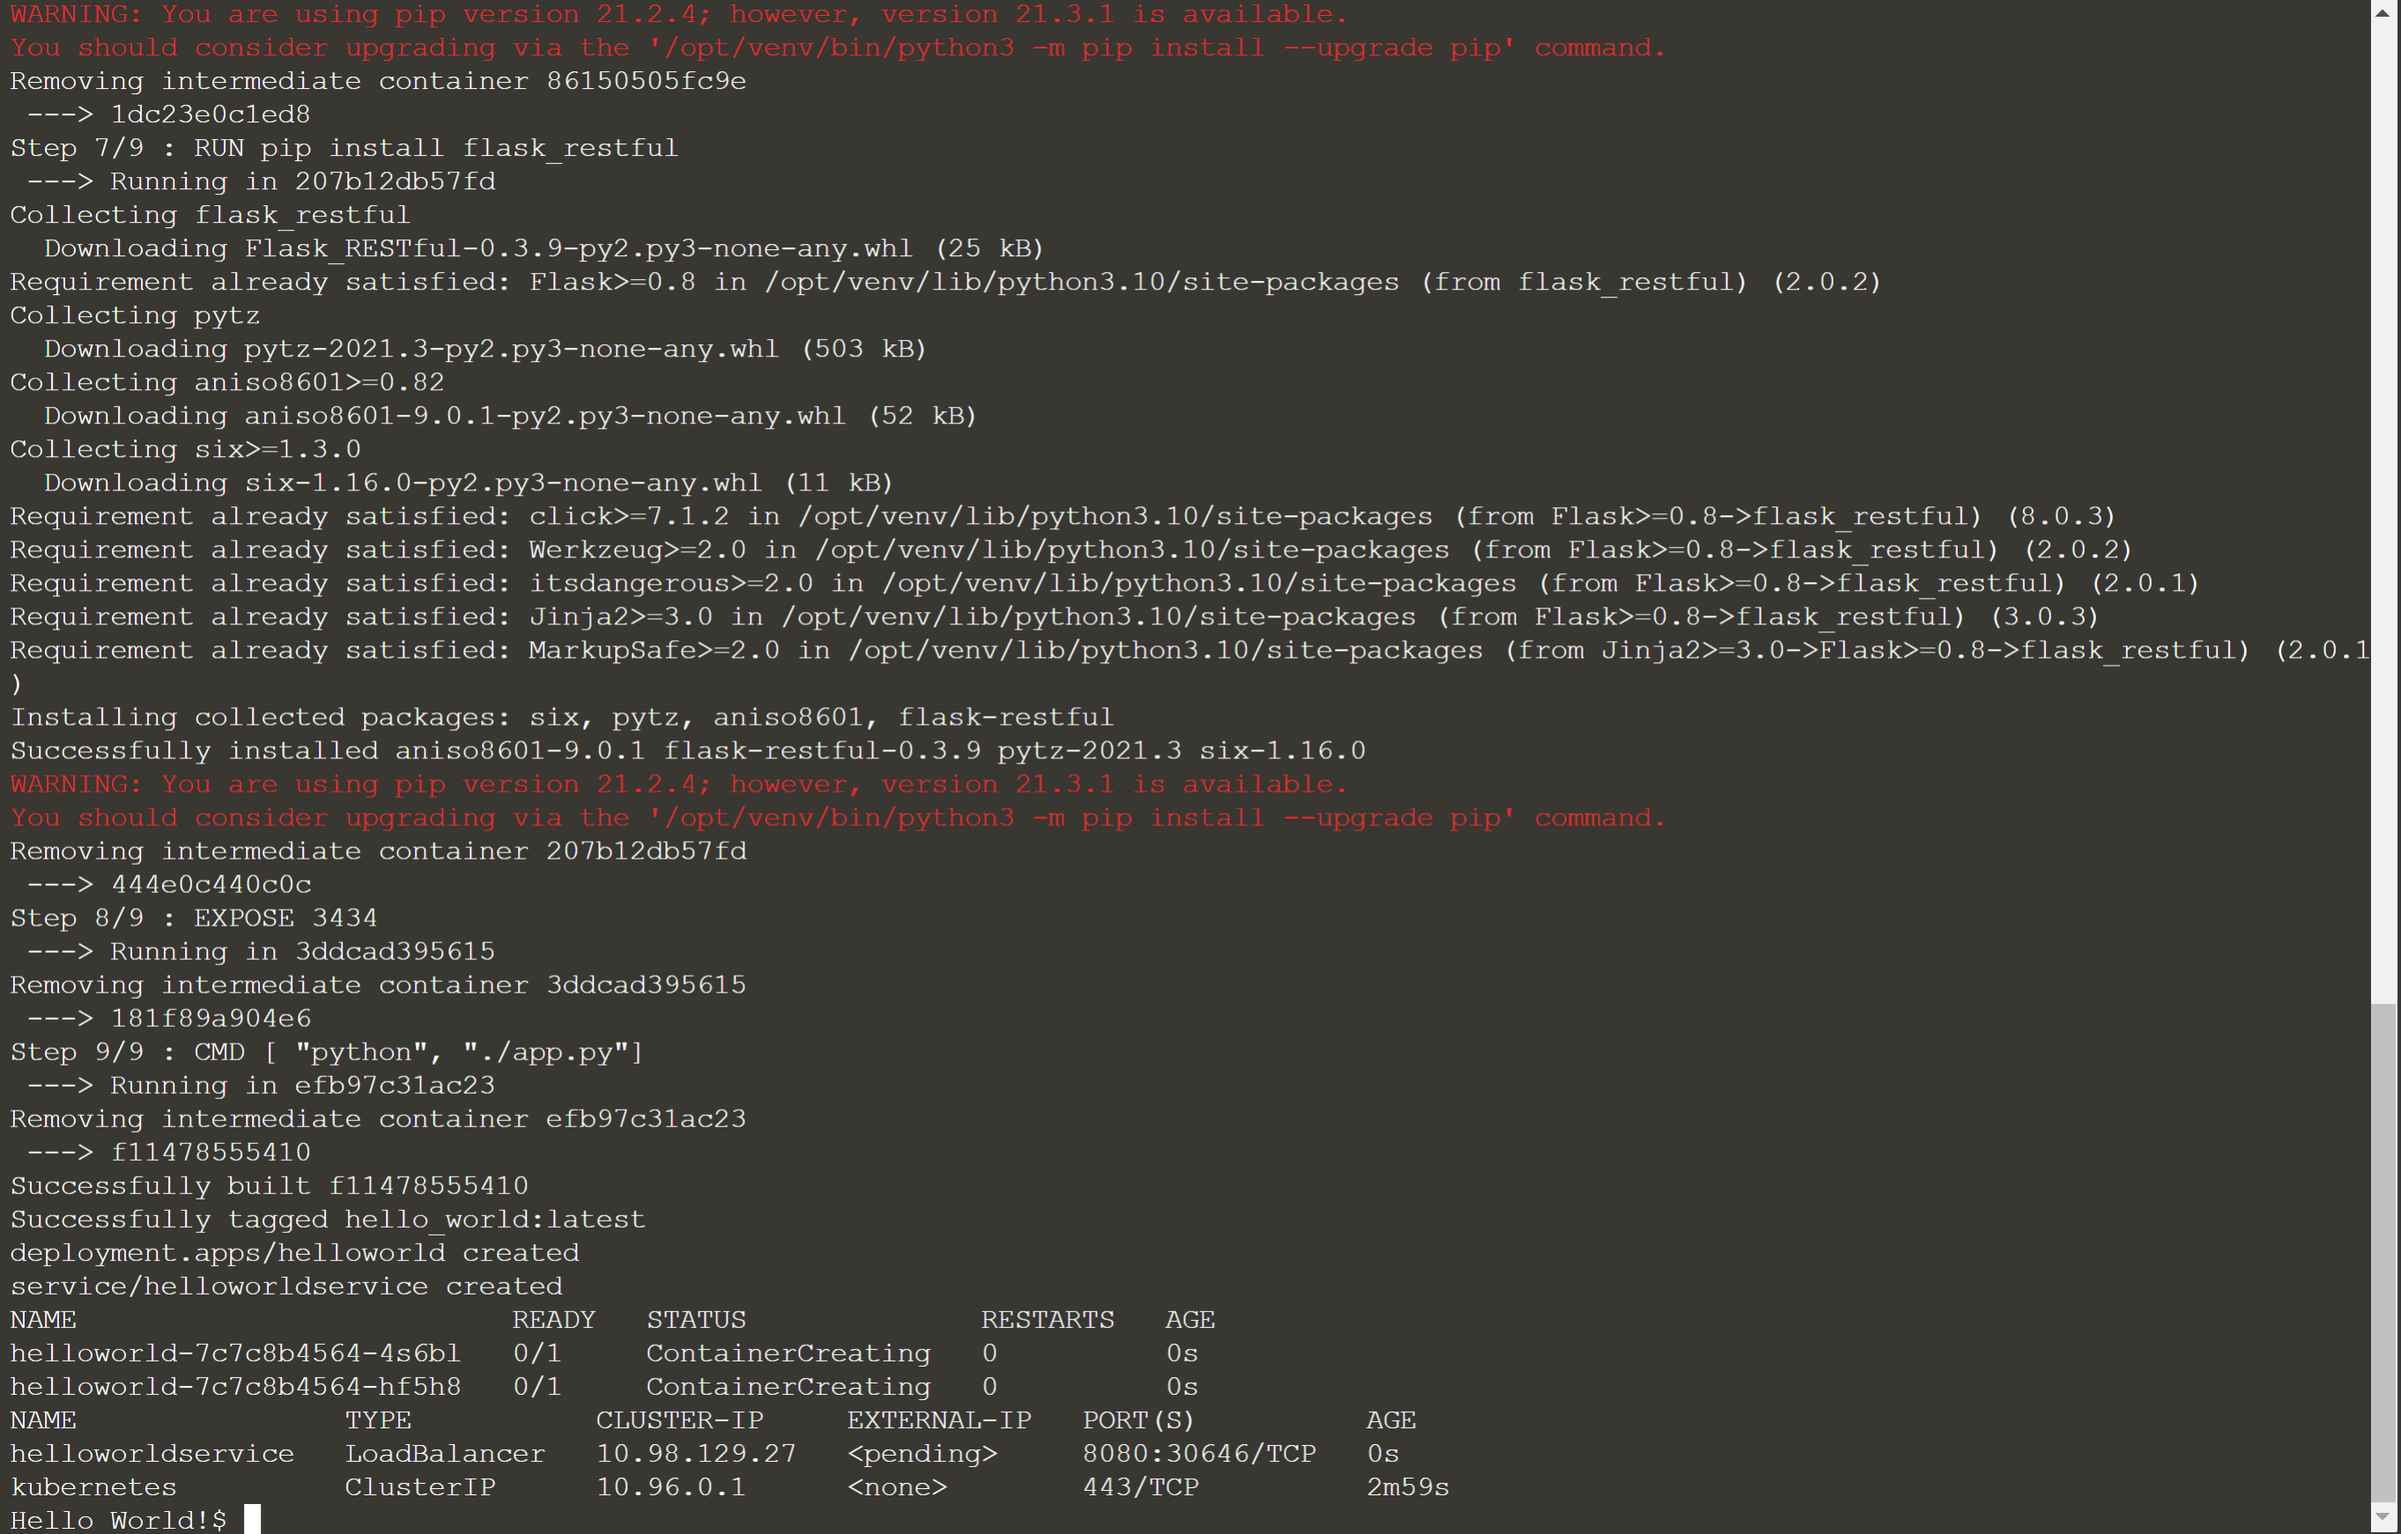
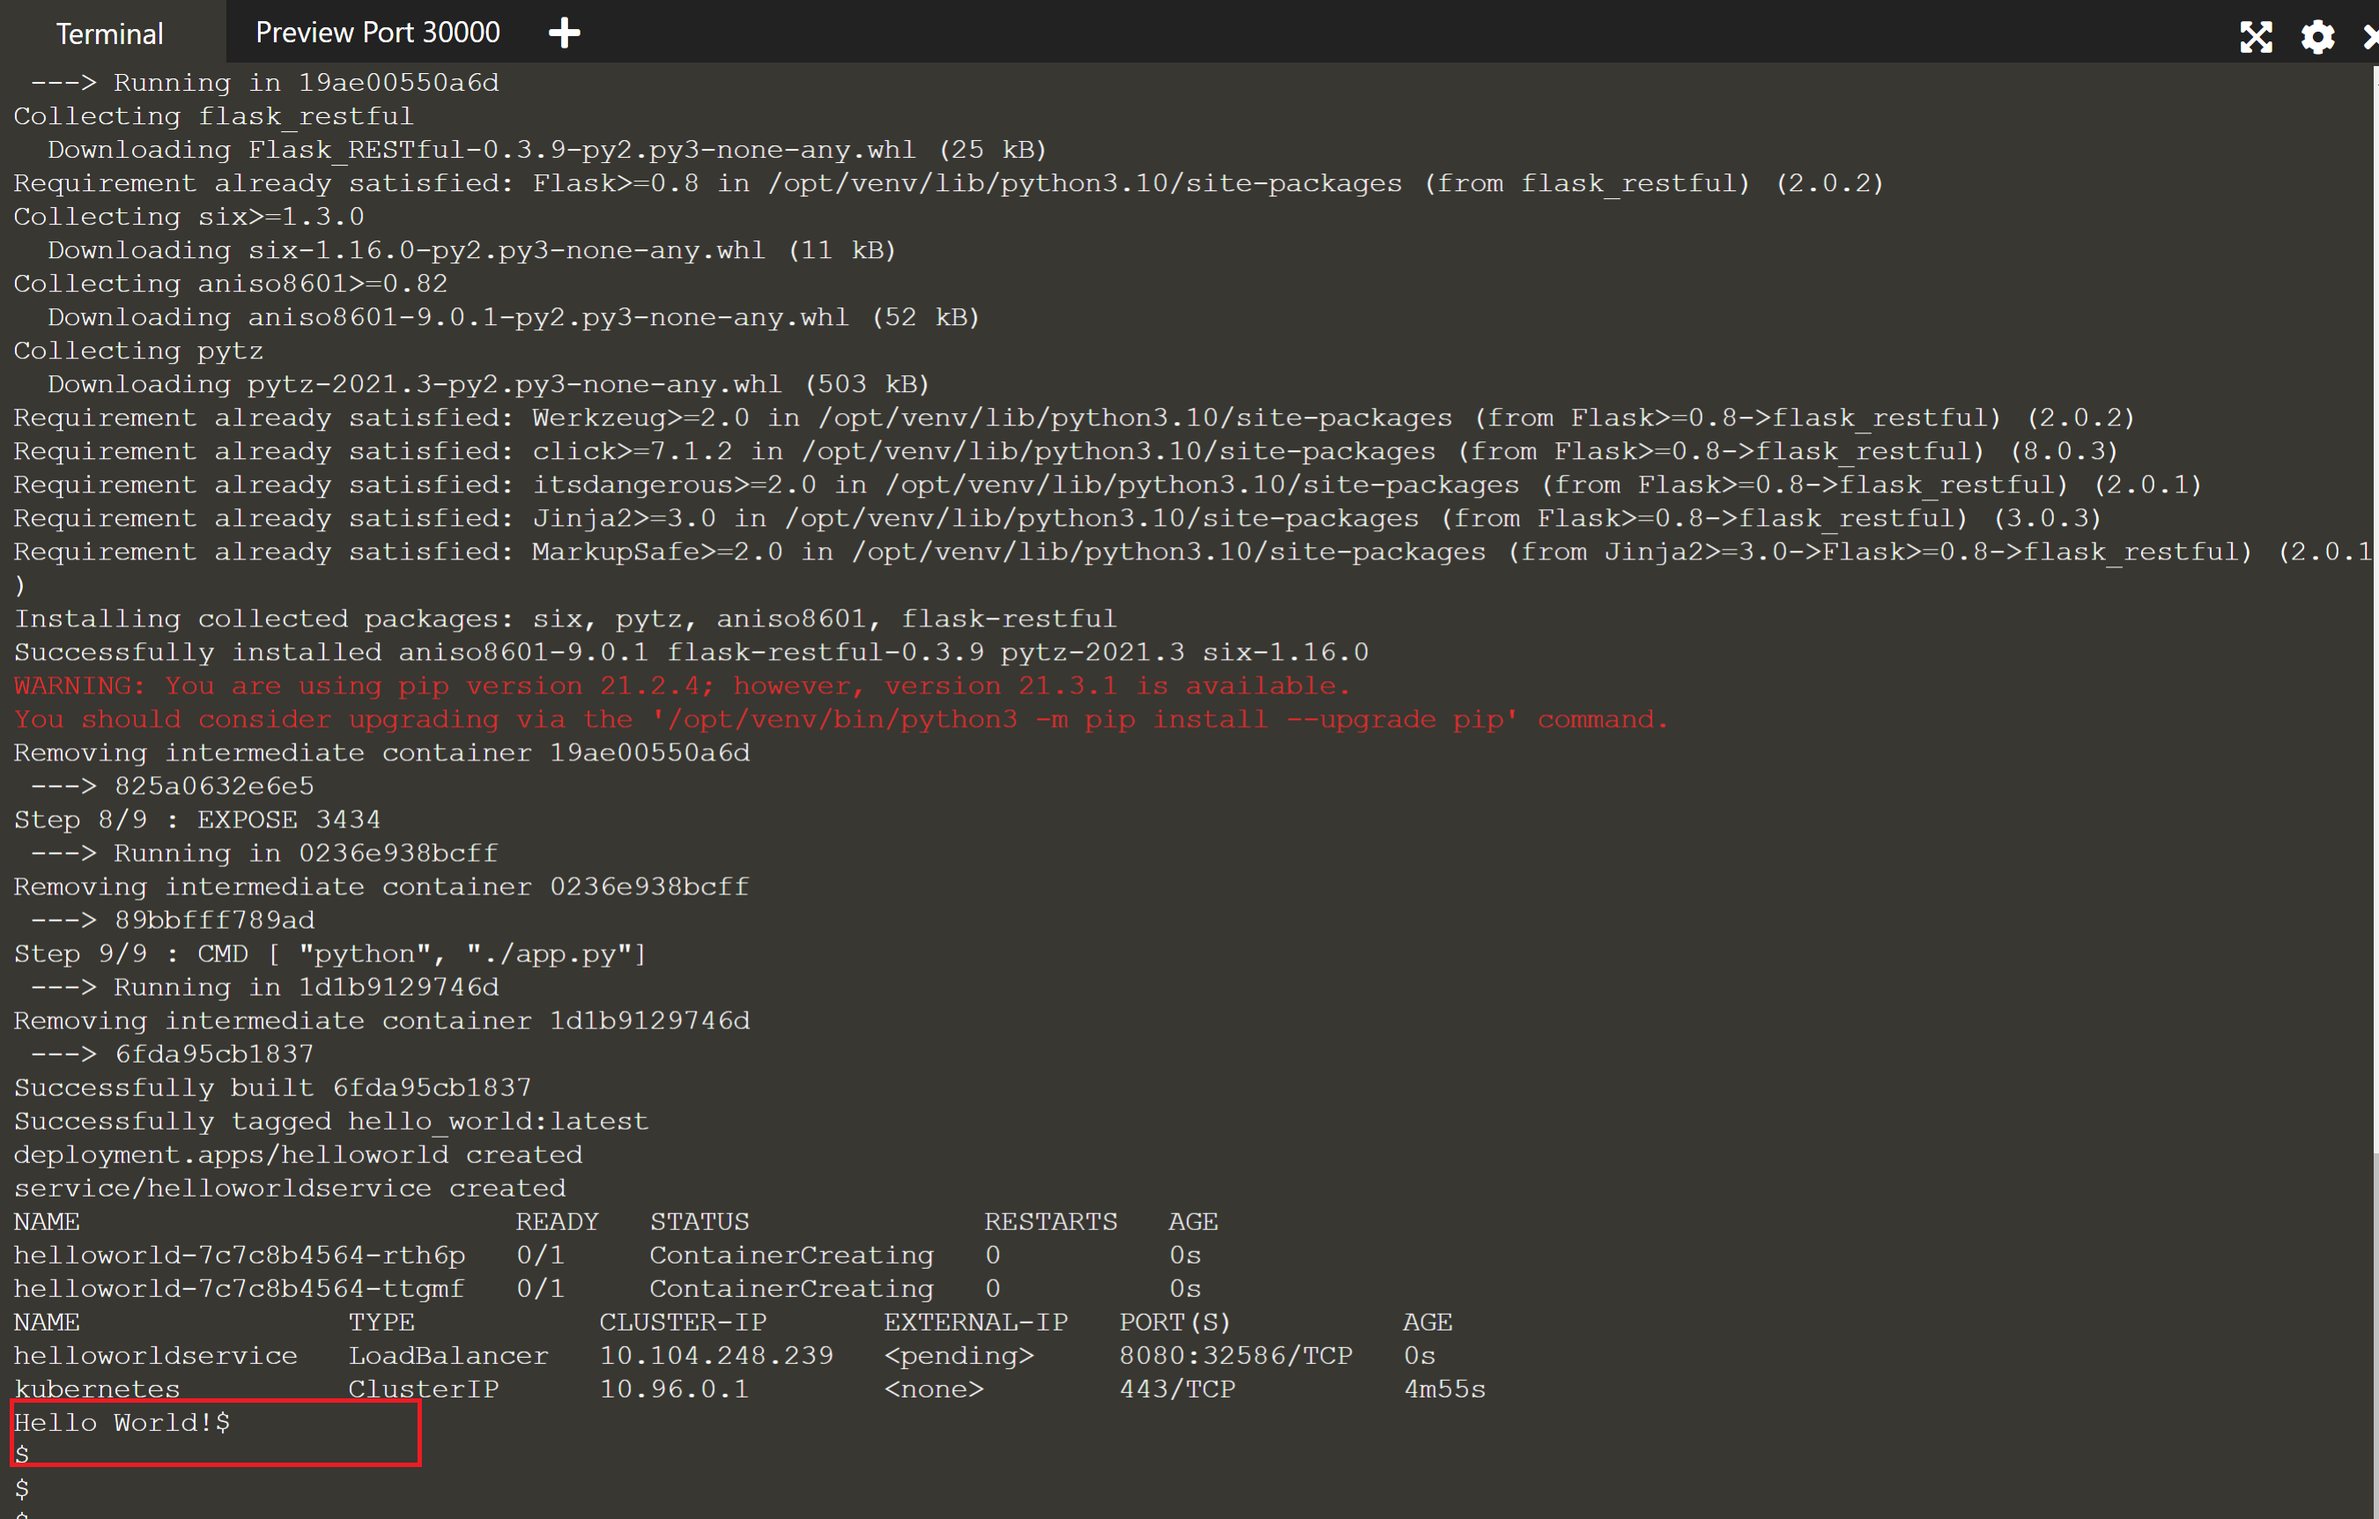
Outout added, image updated

diff --git a/src/readme/readme.md b/src/readme/readme.md
@@ -156,17 +156,17 @@ The image built using docker is available locally hence the 'imagePullPolicy' is
 
 ----
 
+Outputs from 'sh run.sh' (few lines of the output truncated for briverty)
+
 ![Run command output 1](./images/run-command-output1.PNG)
 
-Wait for terminal to return till you see 'Hello World!' message (below)
+Wait for terminal to return till you see 'Hello World!' message (highlighted below). 
 
 ![Run command output 2](./images/run-command-output2.PNG)
 
 ---
 
-
-
-## Output from run.sh
+## Entire output from run.sh
 
 ```
 
@@ -179,15 +179,103 @@ cb5b7ae36172: Pulling fs layer
 6494e4811622: Pulling fs layer
 6f9f74896dfa: Pulling fs layer
 fcb6d5f7c986: Pulling fs layer
-290438add9da: Pulling fs layer
-ab11df61f44a: Pulling fs layer
-de4793a5fa46: Pulling fs layer
+3445db4c939c: Pulling fs layer
+def920d3ef5d: Pulling fs layer
+aabf25a1ee4b: Pulling fs layer
 6494e4811622: Waiting
 6f9f74896dfa: Waiting
 fcb6d5f7c986: Waiting
-290438add9da: Waiting
-ab11df61f44a: Waiting
-de4793a5fa46: Waiting
+3445db4c939c: Waiting
+def920d3ef5d: Waiting
+aabf25a1ee4b: Waiting
+9b829c73b52b: Verifying Checksum
+9b829c73b52b: Download complete
+cb5b7ae36172: Verifying Checksum
+cb5b7ae36172: Download complete
+0e29546d541c: Verifying Checksum
+0e29546d541c: Download complete
+fcb6d5f7c986: Retrying in 5 seconds
+6494e4811622: Verifying Checksum
+6494e4811622: Download complete
+3445db4c939c: Verifying Checksum
+3445db4c939c: Download complete
+def920d3ef5d: Verifying Checksum
+def920d3ef5d: Download complete
+fcb6d5f7c986: Retrying in 4 seconds
+aabf25a1ee4b: Verifying Checksum
+aabf25a1ee4b: Download complete
+fcb6d5f7c986: Retrying in 3 seconds
+fcb6d5f7c986: Retrying in 2 seconds
+6f9f74896dfa: Verifying Checksum
+6f9f74896dfa: Download complete
+fcb6d5f7c986: Retrying in 1 second
+fcb6d5f7c986: Retrying in 10 seconds
+fcb6d5f7c986: Retrying in 9 seconds
+0e29546d541c: Pull complete
+fcb6d5f7c986: Retrying in 8 seconds
+9b829c73b52b: Pull complete
+cb5b7ae36172: Pull complete
+fcb6d5f7c986: Retrying in 7 seconds
+fcb6d5f7c986: Retrying in 6 seconds
+fcb6d5f7c986: Retrying in 5 seconds
+fcb6d5f7c986: Retrying in 4 seconds
+6494e4811622: Pull complete
+fcb6d5f7c986: Retrying in 3 seconds
+fcb6d5f7c986: Retrying in 2 seconds
+fcb6d5f7c986: Retrying in 1 second
+fcb6d5f7c986: Retrying in 15 seconds
+fcb6d5f7c986: Retrying in 14 seconds
+fcb6d5f7c986: Retrying in 13 seconds
+fcb6d5f7c986: Retrying in 12 seconds
+fcb6d5f7c986: Retrying in 11 seconds
+fcb6d5f7c986: Retrying in 10 seconds
+fcb6d5f7c986: Retrying in 9 seconds
+fcb6d5f7c986: Retrying in 8 seconds
+fcb6d5f7c986: Retrying in 7 seconds
+fcb6d5f7c986: Retrying in 6 seconds
+fcb6d5f7c986: Retrying in 5 seconds
+6f9f74896dfa: Pull complete
+fcb6d5f7c986: Retrying in 4 seconds
+fcb6d5f7c986: Retrying in 3 seconds
+fcb6d5f7c986: Retrying in 2 seconds
+fcb6d5f7c986: Retrying in 1 second
+fcb6d5f7c986: Retrying in 20 seconds
+fcb6d5f7c986: Retrying in 19 seconds
+fcb6d5f7c986: Retrying in 18 seconds
+fcb6d5f7c986: Retrying in 17 seconds
+fcb6d5f7c986: Retrying in 16 seconds
+fcb6d5f7c986: Retrying in 15 seconds
+fcb6d5f7c986: Retrying in 14 seconds
+fcb6d5f7c986: Retrying in 13 seconds
+fcb6d5f7c986: Retrying in 12 seconds
+fcb6d5f7c986: Retrying in 11 seconds
+fcb6d5f7c986: Retrying in 10 seconds
+fcb6d5f7c986: Retrying in 9 seconds
+fcb6d5f7c986: Retrying in 8 seconds
+fcb6d5f7c986: Retrying in 7 seconds
+fcb6d5f7c986: Retrying in 6 seconds
+fcb6d5f7c986: Retrying in 5 seconds
+fcb6d5f7c986: Retrying in 4 seconds
+fcb6d5f7c986: Retrying in 3 seconds
+fcb6d5f7c986: Retrying in 2 seconds
+fcb6d5f7c986: Retrying in 1 second
+fcb6d5f7c986: Downloading
+3: Pulling from library/python
+0e29546d541c: Pulling fs layer
+9b829c73b52b: Pulling fs layer
+cb5b7ae36172: Pulling fs layer
+6494e4811622: Pulling fs layer
+6f9f74896dfa: Pulling fs layer
+fcb6d5f7c986: Pulling fs layer
+3445db4c939c: Pulling fs layer
+def920d3ef5d: Pulling fs layer
+aabf25a1ee4b: Pulling fs layer
+6494e4811622: Waiting
+6f9f74896dfa: Waiting
+fcb6d5f7c986: Waiting
+3445db4c939c: Waiting
+def920d3ef5d: Waiting
+aabf25a1ee4b: Waiting
 9b829c73b52b: Verifying Checksum
 9b829c73b52b: Download complete
 cb5b7ae36172: Verifying Checksum
@@ -196,14 +284,14 @@ cb5b7ae36172: Download complete
 0e29546d541c: Download complete
 fcb6d5f7c986: Verifying Checksum
 fcb6d5f7c986: Download complete
-290438add9da: Verifying Checksum
-290438add9da: Download complete
-ab11df61f44a: Verifying Checksum
-ab11df61f44a: Download complete
-de4793a5fa46: Verifying Checksum
-de4793a5fa46: Download complete
 6494e4811622: Verifying Checksum
 6494e4811622: Download complete
+def920d3ef5d: Verifying Checksum
+def920d3ef5d: Download complete
+3445db4c939c: Verifying Checksum
+3445db4c939c: Download complete
+aabf25a1ee4b: Verifying Checksum
+aabf25a1ee4b: Download complete
 6f9f74896dfa: Verifying Checksum
 6f9f74896dfa: Download complete
 0e29546d541c: Pull complete
@@ -212,36 +300,36 @@ cb5b7ae36172: Pull complete
 6494e4811622: Pull complete
 6f9f74896dfa: Pull complete
 fcb6d5f7c986: Pull complete
-290438add9da: Pull complete
-ab11df61f44a: Pull complete
-de4793a5fa46: Pull complete
-Digest: sha256:dbbfcbf95f6b596d2be1d8f3b368016619f78f829facf6f2e361bea1151794e5
+3445db4c939c: Pull complete
+def920d3ef5d: Pull complete
+aabf25a1ee4b: Pull complete
+Digest: sha256:f09d764ee8e6158cddfab341f442fd2e59acd99c4ed5b493a69e55944c379c05
 Status: Downloaded newer image for python:3
- ---> a5d7930b60cc
+ ---> cecf555903c6
 Step 2/9 : ENV VIRTUAL_ENV=/opt/venv
- ---> Running in 3b737caedf54
-Removing intermediate container 3b737caedf54
- ---> 86a1a338ce40
+ ---> Running in 5206631aa546
+Removing intermediate container 5206631aa546
+ ---> 3a4e64e9ef87
 Step 3/9 : RUN python3 -m venv $VIRTUAL_ENV
- ---> Running in 0a95c5983348
-Removing intermediate container 0a95c5983348
- ---> 85f357aea12f
+ ---> Running in a82d8cb5b6a2
+Removing intermediate container a82d8cb5b6a2
+ ---> 056d437cb5c8
 Step 4/9 : ENV PATH="$VIRTUAL_ENV/bin:$PATH"
- ---> Running in 9ee230ea7a77
-Removing intermediate container 9ee230ea7a77
- ---> c73828f43c3d
+ ---> Running in cfb075887b7b
+Removing intermediate container cfb075887b7b
+ ---> c90b99369707
 Step 5/9 : ADD app.py /
- ---> 27f0e0d9bb7d
+ ---> 67fd987415de
 Step 6/9 : RUN pip install flask
- ---> Running in c301decc3679
+ ---> Running in 54c0b65e97d4
 Collecting flask
   Downloading Flask-2.0.2-py3-none-any.whl (95 kB)
+Collecting Jinja2>=3.0
+  Downloading Jinja2-3.0.3-py3-none-any.whl (133 kB)
 Collecting click>=7.1.2
   Downloading click-8.0.3-py3-none-any.whl (97 kB)
 Collecting itsdangerous>=2.0
   Downloading itsdangerous-2.0.1-py3-none-any.whl (18 kB)
-Collecting Jinja2>=3.0
-  Downloading Jinja2-3.0.3-py3-none-any.whl (133 kB)
 Collecting Werkzeug>=2.0
   Downloading Werkzeug-2.0.2-py3-none-any.whl (288 kB)
 Collecting MarkupSafe>=2.0
@@ -250,21 +338,21 @@ Installing collected packages: MarkupSafe, Werkzeug, Jinja2, itsdangerous, click
 Successfully installed Jinja2-3.0.3 MarkupSafe-2.0.1 Werkzeug-2.0.2 click-8.0.3 flask-2.0.2 itsdangerous-2.0.1
 WARNING: You are using pip version 21.2.4; however, version 21.3.1 is available.
 You should consider upgrading via the '/opt/venv/bin/python3 -m pip install --upgrade pip' command.
-Removing intermediate container c301decc3679
- ---> 318aec946564
+Removing intermediate container 54c0b65e97d4
+ ---> e78bb6fa6a26
 Step 7/9 : RUN pip install flask_restful
- ---> Running in 3ab940a858a5
+ ---> Running in f58fb6c0dee6
 Collecting flask_restful
   Downloading Flask_RESTful-0.3.9-py2.py3-none-any.whl (25 kB)
-Requirement already satisfied: Flask>=0.8 in /opt/venv/lib/python3.10/site-packages (from flask_restful) (2.0.2)
-Collecting aniso8601>=0.82
-  Downloading aniso8601-9.0.1-py2.py3-none-any.whl (52 kB)
 Collecting six>=1.3.0
   Downloading six-1.16.0-py2.py3-none-any.whl (11 kB)
+Requirement already satisfied: Flask>=0.8 in /opt/venv/lib/python3.10/site-packages (from flask_restful) (2.0.2)
 Collecting pytz
   Downloading pytz-2021.3-py2.py3-none-any.whl (503 kB)
-Requirement already satisfied: itsdangerous>=2.0 in /opt/venv/lib/python3.10/site-packages (from Flask>=0.8->flask_restful) (2.0.1)
+Collecting aniso8601>=0.82
+  Downloading aniso8601-9.0.1-py2.py3-none-any.whl (52 kB)
 Requirement already satisfied: click>=7.1.2 in /opt/venv/lib/python3.10/site-packages (from Flask>=0.8->flask_restful) (8.0.3)
+Requirement already satisfied: itsdangerous>=2.0 in /opt/venv/lib/python3.10/site-packages (from Flask>=0.8->flask_restful) (2.0.1)
 Requirement already satisfied: Jinja2>=3.0 in /opt/venv/lib/python3.10/site-packages (from Flask>=0.8->flask_restful) (3.0.3)
 Requirement already satisfied: Werkzeug>=2.0 in /opt/venv/lib/python3.10/site-packages (from Flask>=0.8->flask_restful) (2.0.2)
 Requirement already satisfied: MarkupSafe>=2.0 in /opt/venv/lib/python3.10/site-packages (from Jinja2>=3.0->Flask>=0.8->flask_restful) (2.0.1)
@@ -272,27 +360,29 @@ Installing collected packages: six, pytz, aniso8601, flask-restful
 Successfully installed aniso8601-9.0.1 flask-restful-0.3.9 pytz-2021.3 six-1.16.0
 WARNING: You are using pip version 21.2.4; however, version 21.3.1 is available.
 You should consider upgrading via the '/opt/venv/bin/python3 -m pip install --upgrade pip' command.
-Removing intermediate container 3ab940a858a5
- ---> b92df1370163
+Removing intermediate container f58fb6c0dee6
+ ---> 92f22ed242e5
 Step 8/9 : EXPOSE 3434
- ---> Running in 1ea8e5c51d70
-Removing intermediate container 1ea8e5c51d70
- ---> 36fd067a4b0d
+ ---> Running in 5d6a96cd17f0
+Removing intermediate container 5d6a96cd17f0
+ ---> 61472e42f458
 Step 9/9 : CMD [ "python", "./app.py"]
- ---> Running in 9d0bde4cbae9
-Removing intermediate container 9d0bde4cbae9
- ---> e867b093d274
-Successfully built e867b093d274
+ ---> Running in 35c8cb378247
+Removing intermediate container 35c8cb378247
+ ---> c0514519c353
+Successfully built c0514519c353
 Successfully tagged hello_world:latest
 deployment.apps/helloworld created
 service/helloworldservice created
 NAME                          READY   STATUS              RESTARTS   AGE
-helloworld-7c7c8b4564-fqhzn   0/1     ContainerCreating   0          0s
-helloworld-7c7c8b4564-qdvm2   0/1     ContainerCreating   0          0s
-NAME                TYPE           CLUSTER-IP      EXTERNAL-IP   PORT(S)          AGE
-helloworldservice   LoadBalancer   10.106.99.237   <pending>     8080:32489/TCP   0s
-kubernetes          ClusterIP      10.96.0.1       <none>        443/TCP          2m33s
-Hello World!
+helloworld-7c7c8b4564-gkcxd   0/1     ContainerCreating   0          0s
+helloworld-7c7c8b4564-rls9c   0/1     ContainerCreating   0          0s
+NAME                TYPE           CLUSTER-IP     EXTERNAL-IP   PORT(S)          AGE
+helloworldservice   LoadBalancer   10.96.114.75   <pending>     8080:31092/TCP   0s
+kubernetes          ClusterIP      10.96.0.1      <none>        443/TCP          2m23s
+Hello World!$ 
+$ 
+$ 
 
 ```
 
